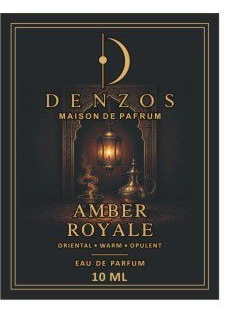
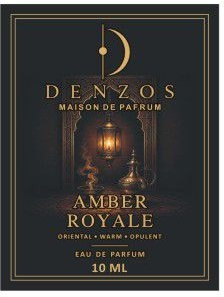
fix: removed white borders from cropped product images

Changed region(s): [[0.0, 0.0, 1.0, 1.0], [0.6875, 0.5758, 0.7188, 0.6061]]

diff --git a/crop_products.py b/crop_products.py
@@ -1,42 +1,28 @@
 """
-crop_products.py — Split each Denzos product sheet into 3 individual images:
-  _10ml.jpeg  (tester — small rectangle, leftmost)
-  _50ml.jpeg  (full size — medium rectangle, center)
-  _100ml.jpeg (gift box — large octagon, rightmost)
-
-Strategy: scan each row for non-white pixels to find the left/right bounds of
-each label group, then split into thirds.
+crop_products.py — Refined.
+Crops the white background perfectly tightly around each product label.
 """
 
-from PIL import Image, ImageChops
+from PIL import Image, ImageChops, ImageOps
 import os
 
 SRC_DIR = r"c:\code n shi\denzos\public\products"
 OUT_DIR = r"c:\code n shi\denzos\public\products"
-PADDING = 10   # px padding around each crop
 
-def find_content_bounds(img):
-    """Return (left, right) pixel columns where content (non-white) exists."""
-    bg = Image.new("RGB", img.size, (255, 255, 255))
-    diff = ImageChops.difference(img.convert("RGB"), bg)
-    # Collapse rows → find columns with any non-white pixel
-    content_cols = []
-    for x in range(img.width):
-        col_pixels = [diff.getpixel((x, y)) for y in range(img.height)]
-        if any(sum(p) > 30 for p in col_pixels):  # threshold for "not white"
-            content_cols.append(x)
-    if not content_cols:
-        return 0, img.width
-    return content_cols[0], content_cols[-1]
+def tight_crop(img):
+    # Convert to RGB
+    rgb = img.convert("RGB")
+    # Invert so white background becomes black (0,0,0)
+    inverted = ImageOps.invert(rgb)
+    # getbbox() finds the bounding box of non-zero pixels
+    bbox = inverted.getbbox()
+    if bbox:
+        return img.crop(bbox)
+    return img
 
 def find_gaps(img, threshold=30):
-    """
-    Find large white-column gaps between the 3 labels.
-    Returns list of (gap_start, gap_end) for gaps wider than 20px.
-    """
     bg = Image.new("RGB", img.size, (255, 255, 255))
     diff = ImageChops.difference(img.convert("RGB"), bg)
-    
     in_gap = False
     gap_start = 0
     gaps = []
@@ -50,87 +36,39 @@ def find_gaps(img, threshold=30):
             gap_start = x
         elif not is_white and in_gap:
             in_gap = False
-            gap_width = x - gap_start
-            if gap_width > 15:  # only significant gaps
+            if x - gap_start > 15:
                 gaps.append((gap_start, x))
-    
     return gaps
 
 def crop_products(src_path, name):
     img = Image.open(src_path)
     W, H = img.size
-    print(f"\n{name}: {W}x{H}")
-    
-    # Find the gaps between the 3 label images
     gaps = find_gaps(img)
-    print(f"  Gaps found: {gaps}")
     
-    # Find overall content bounds
-    left_bound, right_bound = find_content_bounds(img)
-    print(f"  Content bounds: {left_bound} -> {right_bound}")
-    
-    if len(gaps) >= 2:
-        # Take the first two significant gaps as dividers
-        divider1 = (gaps[0][0] + gaps[0][1]) // 2
-        divider2 = (gaps[1][0] + gaps[1][1]) // 2
-        
-        # Crop 1: 10ml tester (leftmost)
-        x1_left = max(0, left_bound - PADDING)
-        x1_right = min(W, gaps[0][0] + PADDING)
-        
-        # Crop 2: 50ml (center)
-        x2_left = max(0, gaps[0][1] - PADDING)
-        x2_right = min(W, gaps[1][0] + PADDING)
-        
-        # Crop 3: 100ml (rightmost)
-        x3_left = max(0, gaps[1][1] - PADDING)
-        x3_right = min(W, right_bound + PADDING)
-        
-    else:
-        # Fallback: split into thirds based on content bounds
-        content_width = right_bound - left_bound
-        third = content_width // 3
-        x1_left, x1_right = left_bound, left_bound + third
-        x2_left, x2_right = left_bound + third, left_bound + 2 * third
-        x3_left, x3_right = left_bound + 2 * third, right_bound
-    
-    crops = [
-        (x1_left, 0, x1_right, H, "10ml"),
-        (x2_left, 0, x2_right, H, "50ml"),
-        (x3_left, 0, x3_right, H, "100ml"),
-    ]
-    
-    for left, top, right, bottom, label in crops:
-        cropped = img.crop((left, top, right, bottom))
-        # Remove white margins from top/bottom too
-        content = cropped.convert("RGB")
-        bg = Image.new("RGB", content.size, (255, 255, 255))
-        diff = ImageChops.difference(content, bg)
-        
-        content_rows = []
-        for y in range(content.height):
-            row_pixels = [diff.getpixel((x, y)) for x in range(content.width)]
-            if any(sum(p) > 30 for p in row_pixels):
-                content_rows.append(y)
-        
-        if content_rows:
-            top_trim = max(0, content_rows[0] - PADDING)
-            bottom_trim = min(content.height, content_rows[-1] + PADDING)
-            cropped = cropped.crop((0, top_trim, cropped.width, bottom_trim))
-        
-        out_name = f"{name}_{label}.jpeg"
-        out_path = os.path.join(OUT_DIR, out_name)
-        cropped.save(out_path, "JPEG", quality=95)
-        print(f"  Saved: {out_name}  ({cropped.size[0]}x{cropped.size[1]})")
+    if len(gaps) < 2:
+        print(f"Could not find 2 gaps in {name}")
+        return
 
-# Process all product images
+    # Slice the original image broadly at the gaps
+    # left slice: 0 to first gap start
+    slice1 = img.crop((0, 0, gaps[0][0], H))
+    # center slice: first gap end to second gap start
+    slice2 = img.crop((gaps[0][1], 0, gaps[1][0], H))
+    # right slice: second gap end to end of image
+    slice3 = img.crop((gaps[1][1], 0, W, H))
+    
+    # Now tightly crop the white space out of each slice
+    crop1 = tight_crop(slice1)
+    crop2 = tight_crop(slice2)
+    crop3 = tight_crop(slice3)
+    
+    # Save them
+    crop1.save(os.path.join(OUT_DIR, f"{name}_10ml.jpeg"), "JPEG", quality=95)
+    crop2.save(os.path.join(OUT_DIR, f"{name}_50ml.jpeg"), "JPEG", quality=95)
+    crop3.save(os.path.join(OUT_DIR, f"{name}_100ml.jpeg"), "JPEG", quality=95)
+    
+    print(f"DONE {name}: {crop1.size}, {crop2.size}, {crop3.size}")
+
 products = ["amber_royale", "frosted_air", "noir_floral", "oud_signature", "woody_intense"]
-
-for product in products:
-    src = os.path.join(SRC_DIR, f"{product}.jpeg")
-    if os.path.exists(src):
-        crop_products(src, product)
-    else:
-        print(f"WARNING: {src} not found")
-
-print("\n✅ All done!")
+for p in products:
+    crop_products(os.path.join(SRC_DIR, f"{p}.jpeg"), p)
